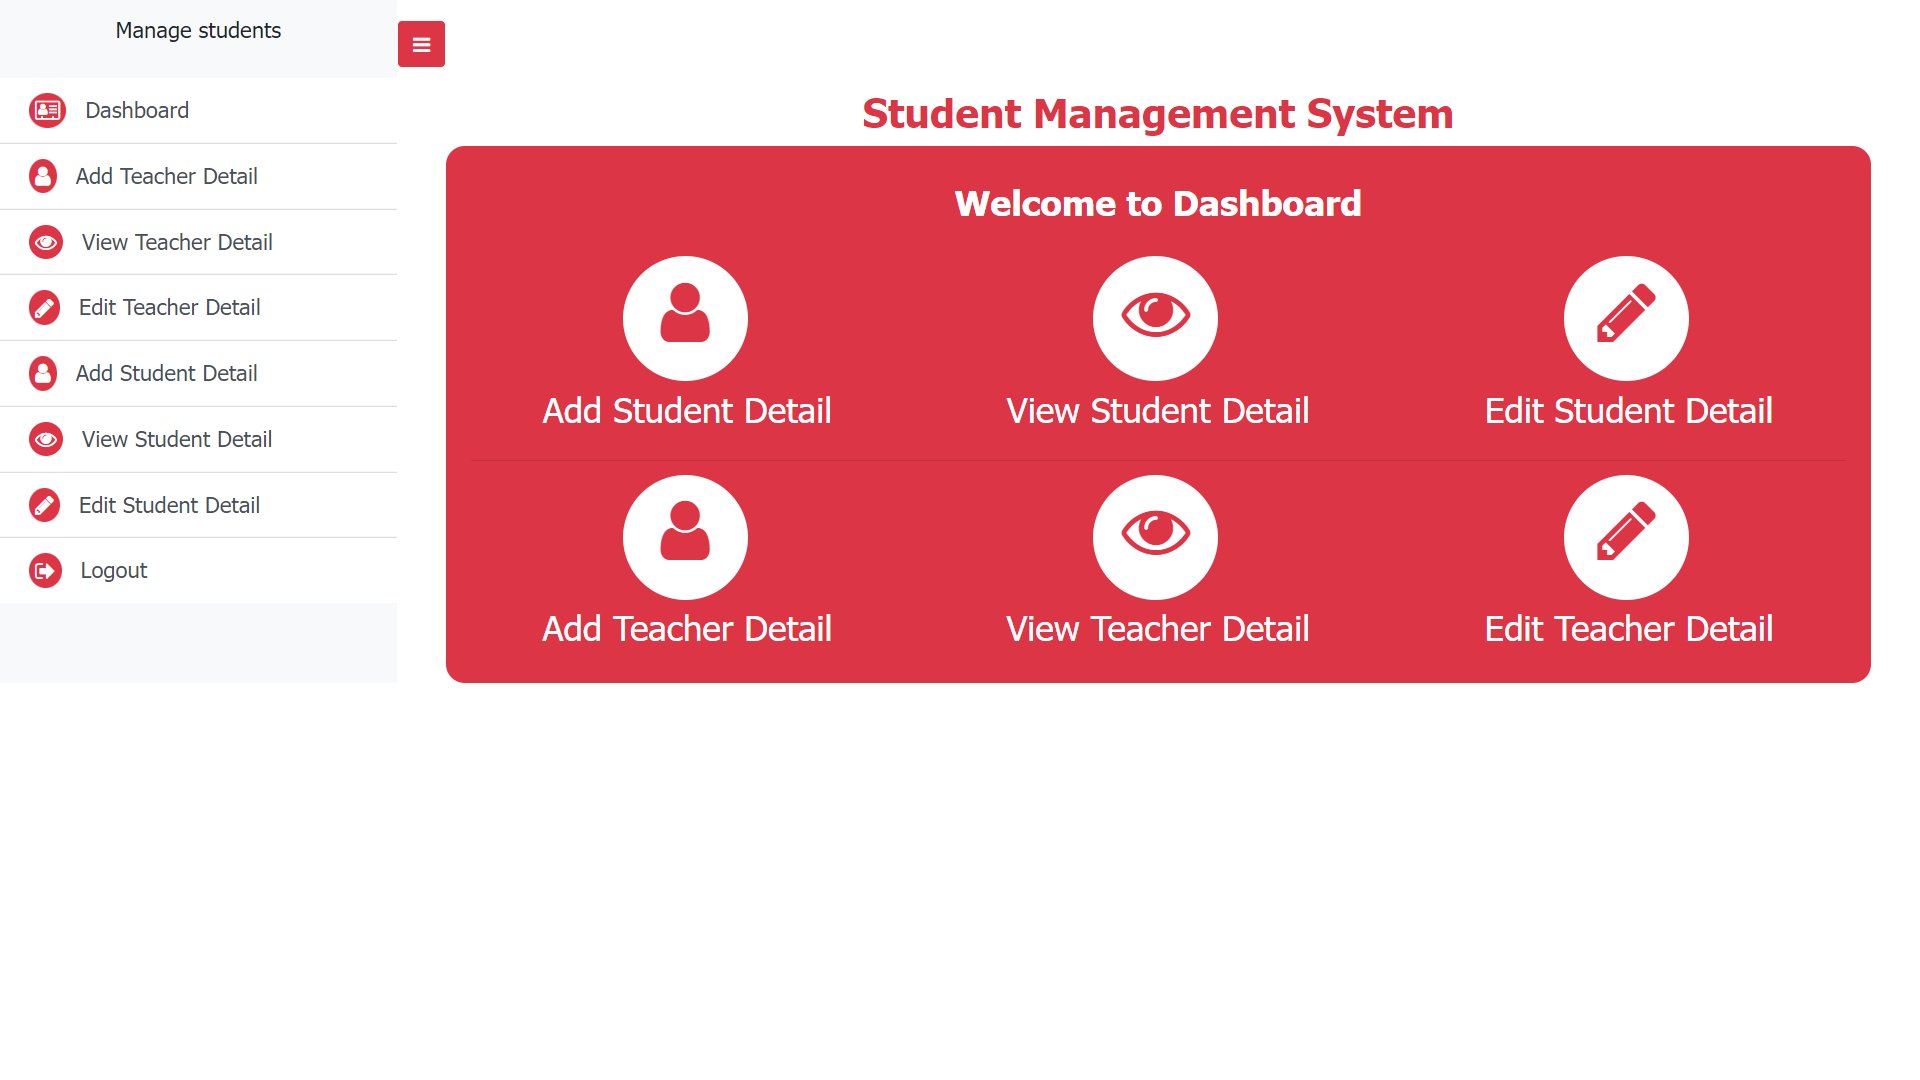
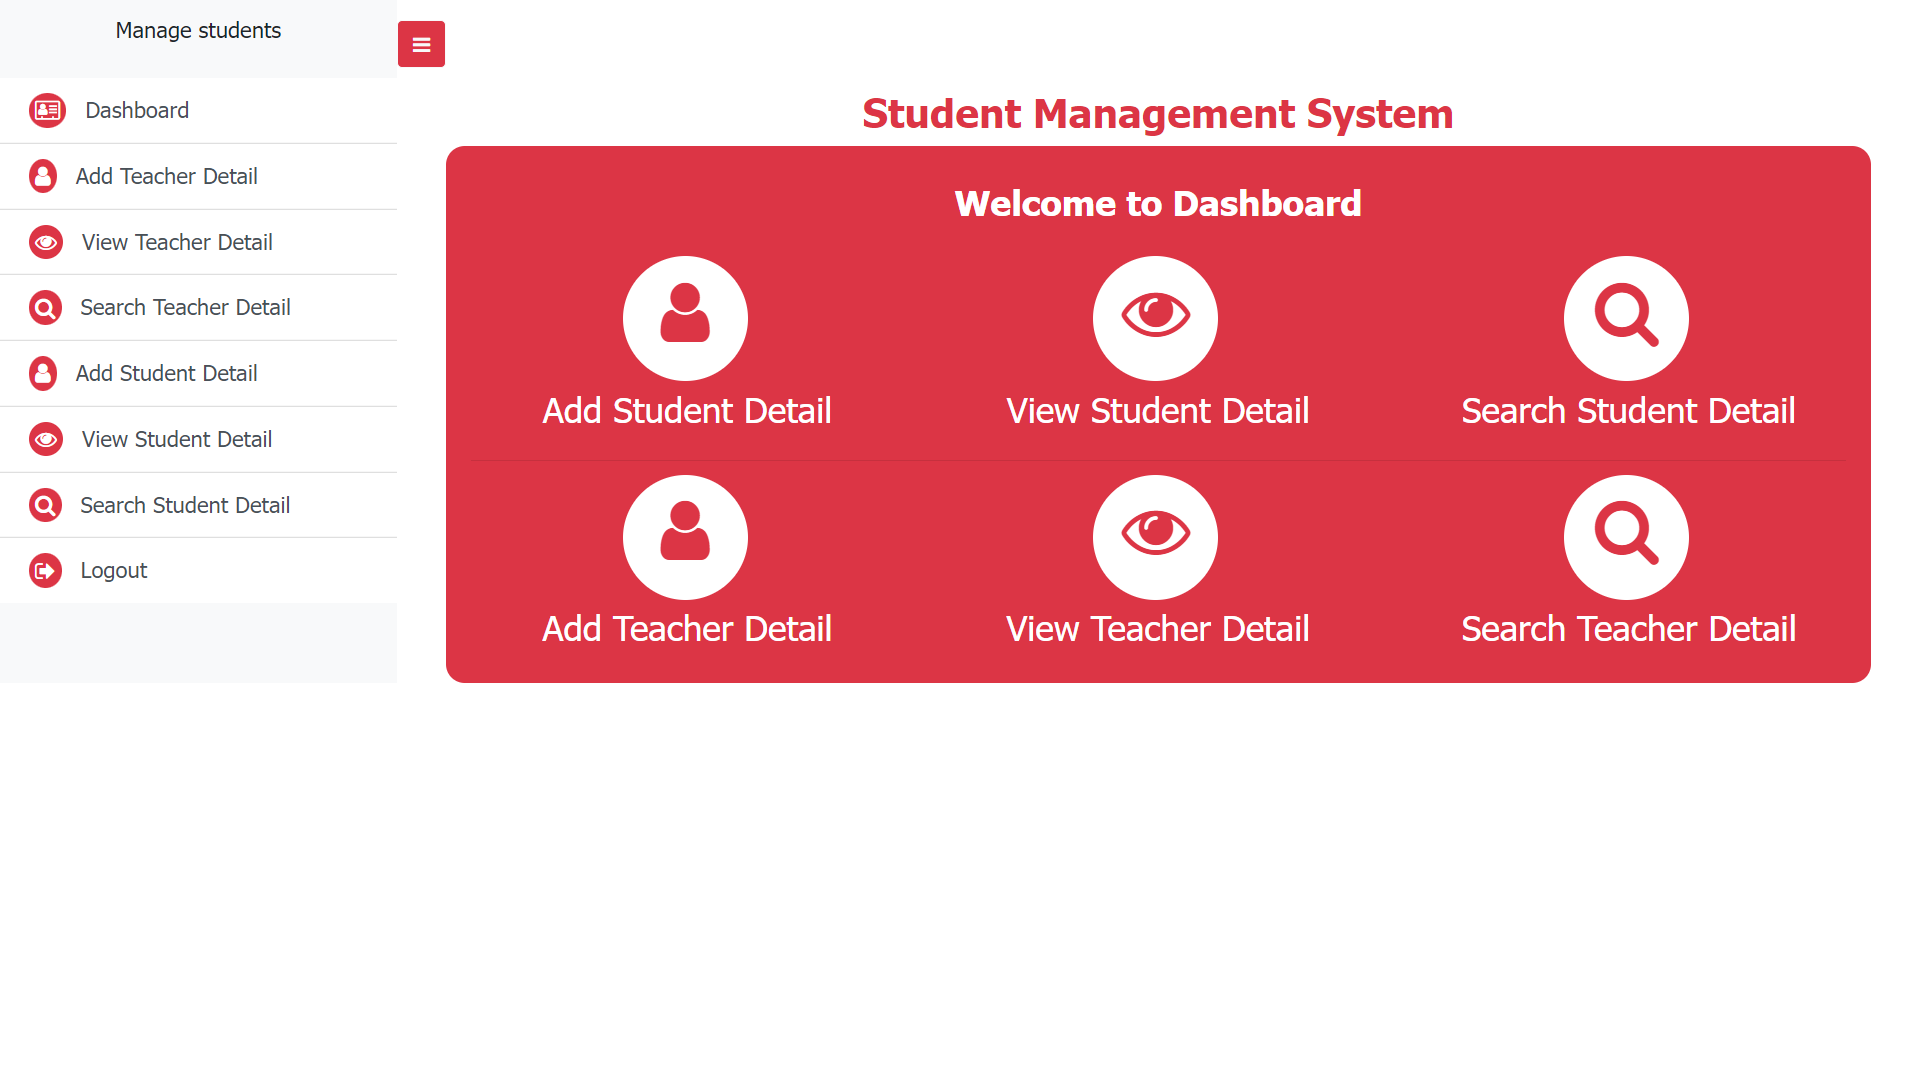
Added Search Students Module

diff --git a/search-student.php b/search-student.php
@@ -1,13 +1,18 @@
 <?php
 
 session_start();
-
 if (!$_SESSION['email']) {
     $_SESSION['login_first'] = "Please login first";
     header('location:index.php');
 }
 
-include 'dbconnect.php'
+include 'dbconnect.php';
+$studentName = '';
+
+if (isset($_POST['search'])) {
+    $studentName = mysqli_real_escape_string($conn, $_POST['studentName']);
+}
+
 ?>
 
 <!DOCTYPE html>
@@ -27,7 +32,7 @@ include 'dbconnect.php'
     <meta name="viewport" content="width=device-width, initial-scale=1">
     <link rel="stylesheet" href="https://cdnjs.cloudflare.com/ajax/libs/font-awesome/4.7.0/css/font-awesome.min.css">
 
-    <link rel="stylesheet" href="view-student.css">
+    <link rel="stylesheet" href="sidebar.css">
 
     <!-- //!Button Logic -->
     <script>
@@ -63,7 +68,7 @@ include 'dbconnect.php'
                     <i class="fa fa-eye"></i>View Teacher Detail
                 </a>
 
-                <a href="search-teacher.php" class="list-group-item list-group-item-action">
+                <a href="edit-teacher.php" class="list-group-item list-group-item-action">
                     <i class="fa fa-search"></i>Search Teacher Detail
                 </a>
 
@@ -93,16 +98,25 @@ include 'dbconnect.php'
             </button>
 
             <section id="main-form">
-                <h3 class="text-center text-success font-weight-bold"><?php echo @$_GET['update_success'];
-                                                                        echo @$_GET['delete_success']; ?></h3>
-                <h3 class="text-center text-danger font-weight-bold"><?php echo @$_GET['update_error']; ?></h3>
+            <h3 class="text-center text-success font-weight-bold"><?php echo @$_GET['delete_success']; ?></h3>
                 <h2 class="text-center text-danger pt-3 font-weight-bold">Student Management System</h2>
 
                 <div class="container bg-danger" id="formsetting">
 
                     <h3 class="text-center text-white pb-4 pt-2 font-weight-bold">
-                        View Student Detail
+                        Search Students
                     </h3>
+
+                    <form method="POST" action="">
+
+                        <div class="input-group">
+                            <input type="text" class="form-control" name="studentName" placeholder="Search for...">
+                            <span class="input-group-btn">
+                                <input class="btn btn-search" name="search" type="submit" value="Search"><i class="fa fa-search fa-fw"></i></input>
+                            </span>
+                        </div>
+
+                    </form>
 
                     <div class="row">
                         <div class="col-md-12 col-sm-12 col-12">
@@ -127,12 +141,19 @@ include 'dbconnect.php'
                                 </thead>
 
                                 <?php
-                                $sql = "SELECT * FROM student_detail";
+                                
+                                // if($studentName==''){
+                                //     die('<h3 class="text-center text-sucess bg-success text-white font-weight-bold">Search for Students</h3>');
+                                // }
+
+                                $sql = "SELECT * FROM student_detail WHERE fname LIKE '%$studentName%' OR lname LIKE '%$studentName%'";
                                 $run = mysqli_query($conn, $sql);
+
+                                $usersFoundFlag = true;
 
                                 $i = 1; //! For serial number
                                 while ($row = mysqli_fetch_assoc($run)) {
-
+                                    $usersFoundFlag= false;
                                 ?>
                                     <tbody>
                                         <tr>
@@ -159,10 +180,22 @@ include 'dbconnect.php'
                                         </tr>
                                     </tbody>
 
-                                <?php } ?>
+                                <?php 
+                                } 
+
+                                ?>
+
+                                
                             </table>
+
+                            <?php 
+                            if($usersFoundFlag){
+                                die('<h3 class="text-center text-sucess bg-success text-white font-weight-bold">No Students Found</h3>');
+                            }
+                        ?>
                         </div>
                     </div>
+
 
 
                 </div>

diff --git a/main.php b/main.php
@@ -62,7 +62,7 @@ if( !$_SESSION['email']){
                 </a>
 
                 <a href="edit-teacher.php" class="list-group-item list-group-item-action">
-                    <i class="fa fa-pencil"></i>Edit Teacher Detail
+                    <i class="fa fa-search"></i>Search Teacher Detail
                 </a>
 
                 <a href="add-student.php" class="list-group-item list-group-item-action">
@@ -73,8 +73,8 @@ if( !$_SESSION['email']){
                     <i class="fa fa-eye"></i>View Student Detail
                 </a>
 
-                <a href="edit-student.php" class="list-group-item list-group-item-action">
-                    <i class="fa fa-pencil"></i>Edit Student Detail
+                <a href="search-student.php" class="list-group-item list-group-item-action">
+                    <i class="fa fa-search"></i>Search Student Detail
                 </a>
 
                 <a href="logout.php" class="list-group-item list-group-item-action">
@@ -116,9 +116,9 @@ if( !$_SESSION['email']){
                         </div>
 
                         <div class="col-md-4 col-sm-4 col-12 m-auto icon">
-                            <a href="edit-student.php" class="text-white text-center">
-                                <i class="fa fa-pencil"></i>
-                                <h3>Edit Student Detail</h3>
+                            <a href="search-student.php" class="text-white text-center">
+                                <i class="fa fa-search"></i>
+                                <h3>Search Student Detail</h3>
                             </a>
                         </div>
 
@@ -143,9 +143,9 @@ if( !$_SESSION['email']){
                         </div>
 
                         <div class="col-md-4 col-sm-4 col-12 m-auto icon">
-                            <a href="edit-teacher.php" class="text-white text-center">
-                                <i class="fa fa-pencil"></i>
-                                <h3>Edit Teacher Detail</h3>
+                            <a href="search-teacher.php" class="text-white text-center">
+                                <i class="fa fa-search"></i>
+                                <h3>Search Teacher Detail</h3>
                             </a>
                         </div>
 

diff --git a/add-student.php b/add-student.php
@@ -118,8 +118,8 @@ if (isset($_POST['add'])) {
                     <i class="fa fa-eye"></i>View Teacher Detail
                 </a>
 
-                <a href="edit-teacher.php" class="list-group-item list-group-item-action">
-                    <i class="fa fa-pencil"></i>Edit Teacher Detail
+                <a href="search-teacher.php" class="list-group-item list-group-item-action">
+                    <i class="fa fa-search"></i>Search Teacher Detail
                 </a>
 
                 <a href="add-student.php" class="list-group-item list-group-item-action">
@@ -130,8 +130,8 @@ if (isset($_POST['add'])) {
                     <i class="fa fa-eye"></i>View Student Detail
                 </a>
 
-                <a href="edit-student.php" class="list-group-item list-group-item-action">
-                    <i class="fa fa-pencil"></i>Edit Student Detail
+                <a href="search-student.php" class="list-group-item list-group-item-action">
+                    <i class="fa fa-search"></i>Search Student Detail
                 </a>
 
                 <a href="logout.php" class="list-group-item list-group-item-action">
@@ -149,8 +149,6 @@ if (isset($_POST['add'])) {
             </button>
 
             <section id="main-form">
-
-
 
                 <h2 class="text-center text-danger pt-3 font-weight-bold">Student Management System</h2>
 

diff --git a/edit-student-detail.php b/edit-student-detail.php
@@ -128,8 +128,8 @@ if (isset($_POST['update'])) {
                     <i class="fa fa-eye"></i>View Teacher Detail
                 </a>
 
-                <a href="edit-teacher.php" class="list-group-item list-group-item-action">
-                    <i class="fa fa-pencil"></i>Edit Teacher Detail
+                <a href="search-teacher.php" class="list-group-item list-group-item-action">
+                    <i class="fa fa-search"></i>Search Teacher Detail
                 </a>
 
                 <a href="add-student.php" class="list-group-item list-group-item-action">
@@ -140,8 +140,8 @@ if (isset($_POST['update'])) {
                     <i class="fa fa-eye"></i>View Student Detail
                 </a>
 
-                <a href="edit-student.php" class="list-group-item list-group-item-action">
-                    <i class="fa fa-pencil"></i>Edit Student Detail
+                <a href="search-student.php" class="list-group-item list-group-item-action">
+                    <i class="fa fa-search"></i>Search Student Detail
                 </a>
 
                 <a href="logout.php" class="list-group-item list-group-item-action">

diff --git a/delete-student-detail.php b/delete-student-detail.php
@@ -12,7 +12,8 @@ include 'dbconnect.php';
 if (isset($_GET['delete_student'])) {
 
     $deleteId = $_GET['delete_student'];
-
+    $pageUrl = $_GET['page'];
+    
     //! To delete image
     $image_query = " SELECT * FROM student_detail WHERE id = '$deleteId' ";
     $rs = mysqli_query($conn, $image_query);
@@ -26,9 +27,10 @@ if (isset($_GET['delete_student'])) {
     $sql = "DELETE FROM student_detail WHERE id = '$deleteId' ";
     $run = mysqli_query($conn, $sql);
 
-    if ($run) {
-        echo "<script>window.open('view-student.php?delete_success=Student data deleted successfully','_self')</script>";
+    if ($run) 
+    {     if($pageUrl == 'view-student.php')
+       echo "<script>window.open('view-student.php?delete_success=Student data deleted successfully','_self')</script>";
+       else if($pageUrl == 'search-student.php') echo "<script>window.open('search-student.php?delete_success=Student data deleted successfully','_self')</script>";
+        
     }
 }
-
-?>
